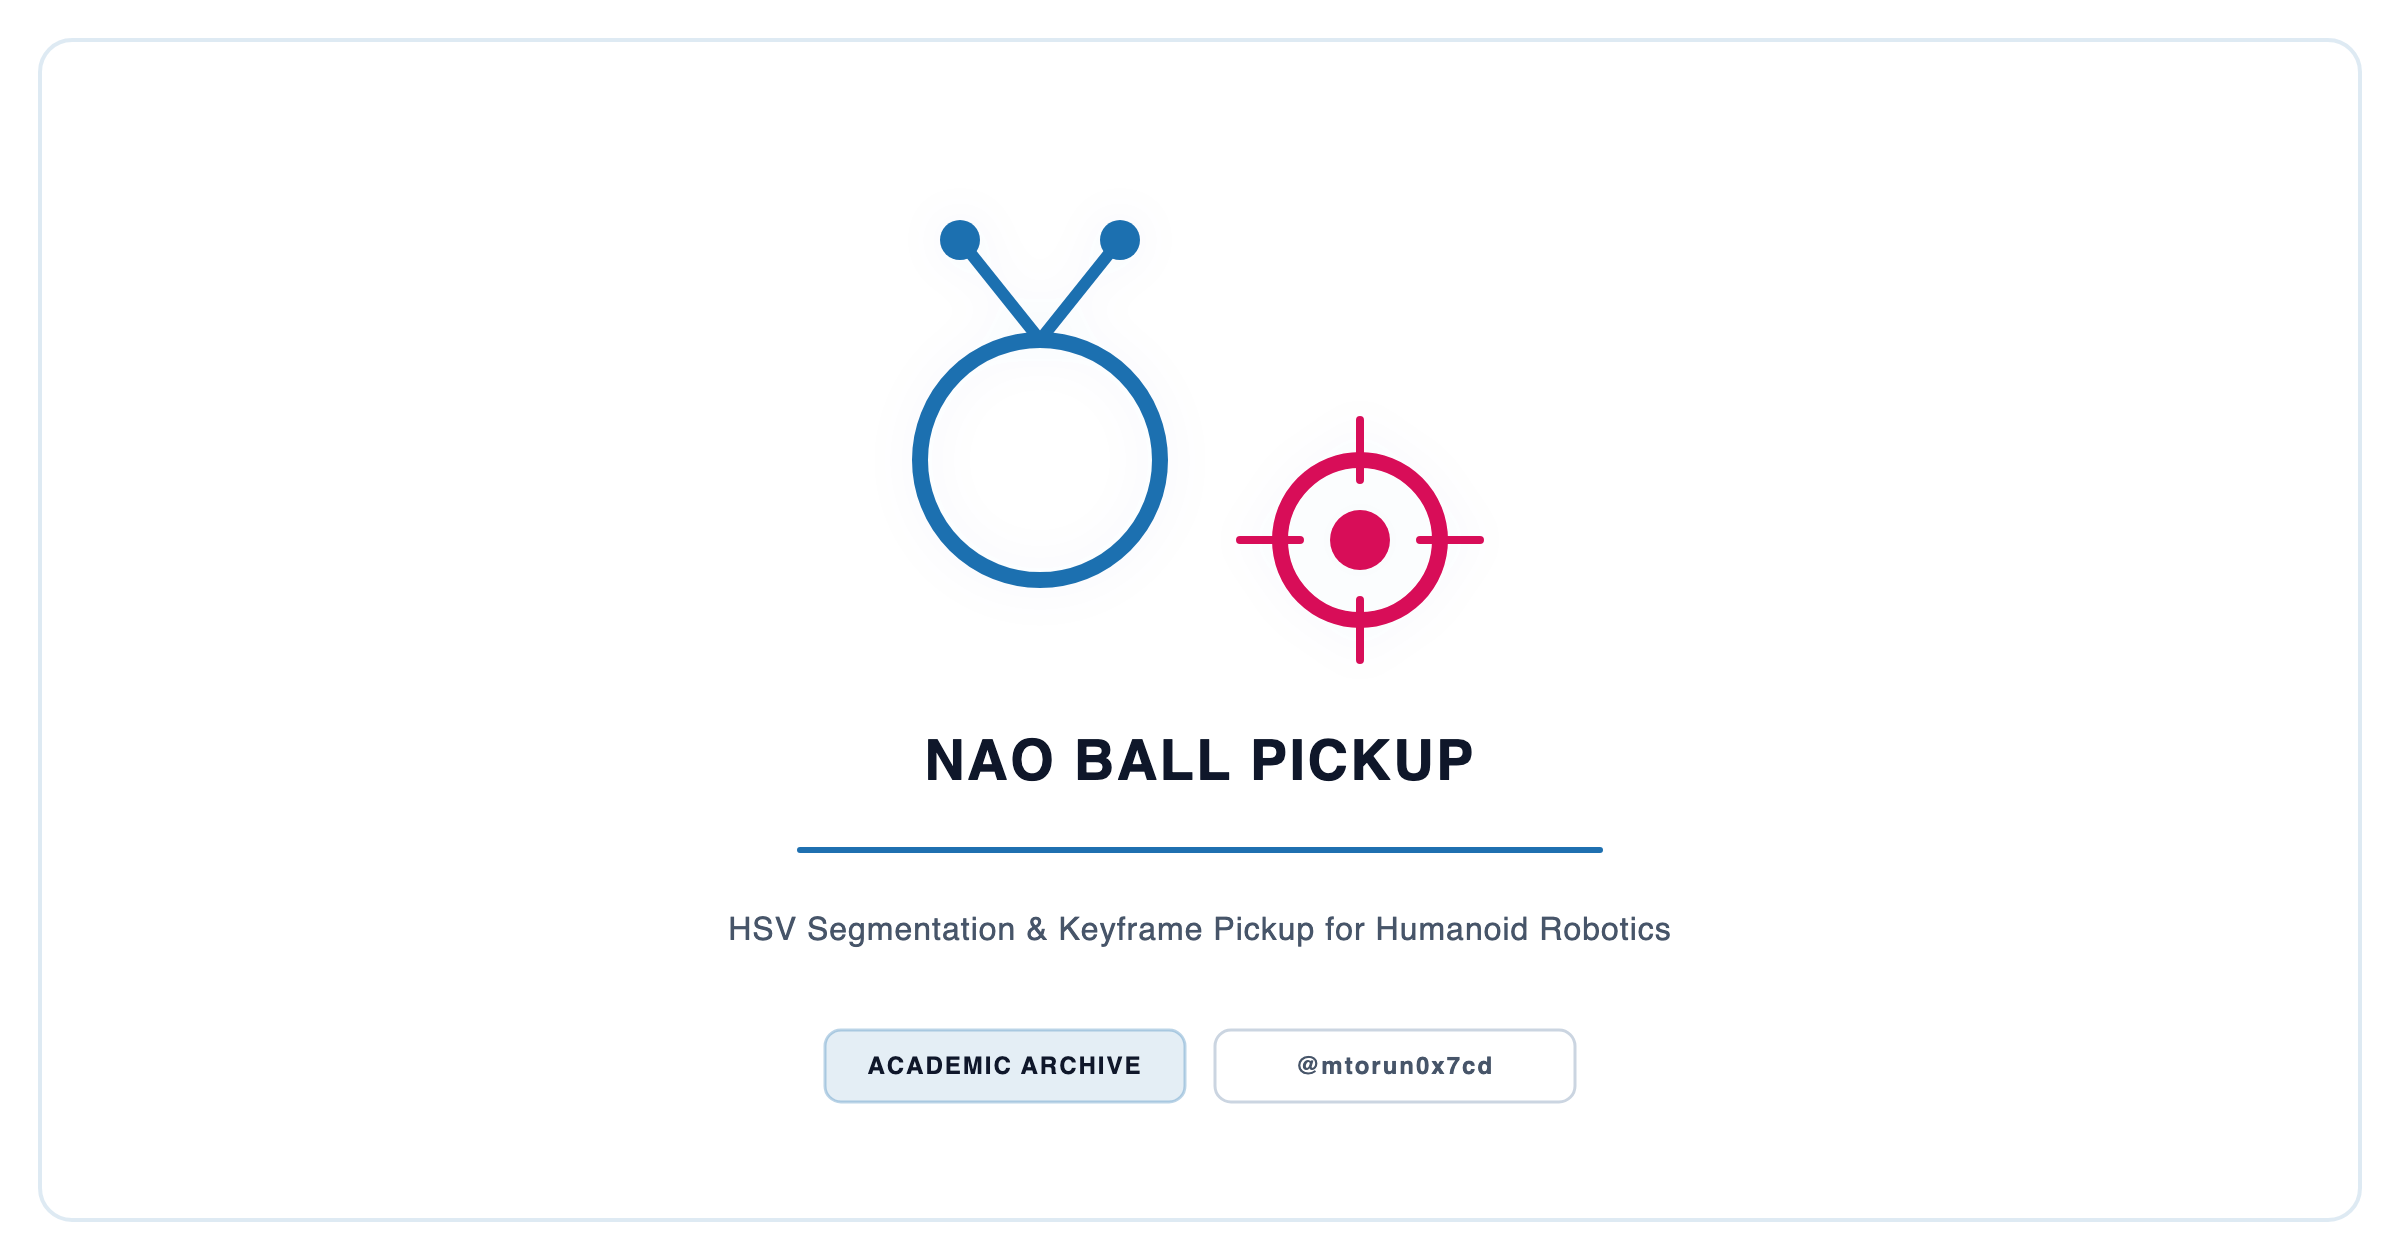
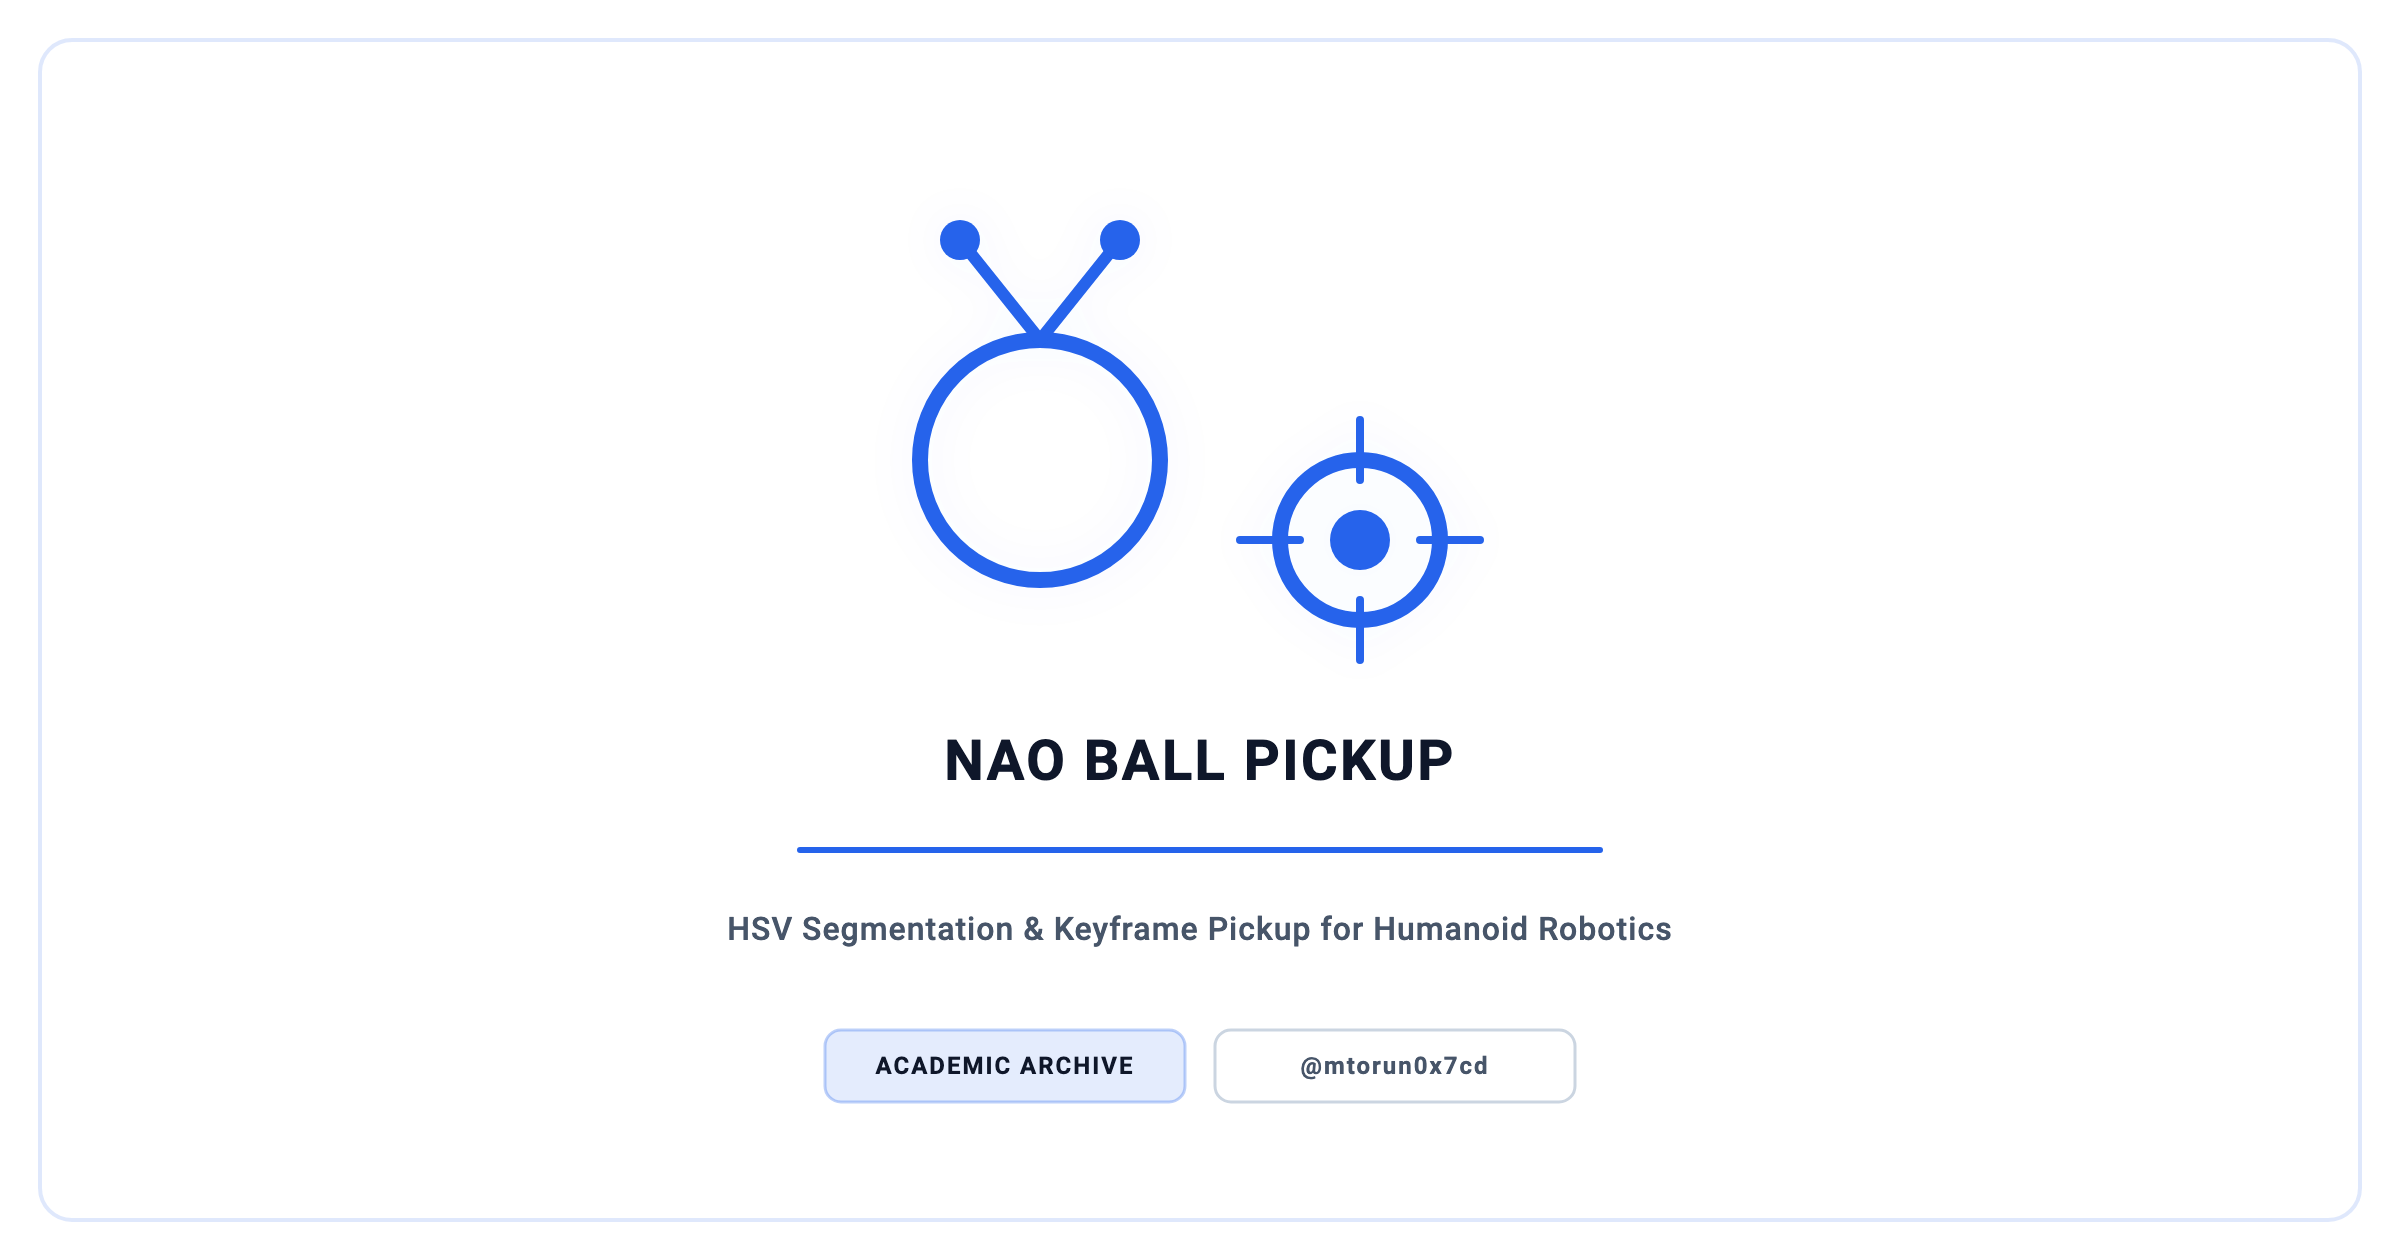
docs: recolour the social preview and signal-flow diagram to the brand accent

diff --git a/README.md b/README.md
@@ -75,7 +75,7 @@ The system follows a pipeline architecture with event-driven data flow between d
 ### Signal Flow Diagram
 
 ```mermaid
-%%{init: {'theme': 'base', 'themeVariables': { 'primaryColor': '#FFFDE7', 'edgeColor': '#FBC02D', 'primaryBorderColor': '#F57F17', 'lineColor': '#FBC02D', 'textColor': '#3E2723' }}}%%
+%%{init: {'theme': 'base', 'themeVariables': { 'primaryColor': '#EFF6FF', 'edgeColor': '#2563EB', 'primaryBorderColor': '#2563EB', 'lineColor': '#2563EB', 'textColor': '#0F172A' }}}%%
 graph LR
     Camera[NAO bottom camera] --> OpenCV[OpenCV circle detection]
     OpenCV --> Error[pixel-error computation]
